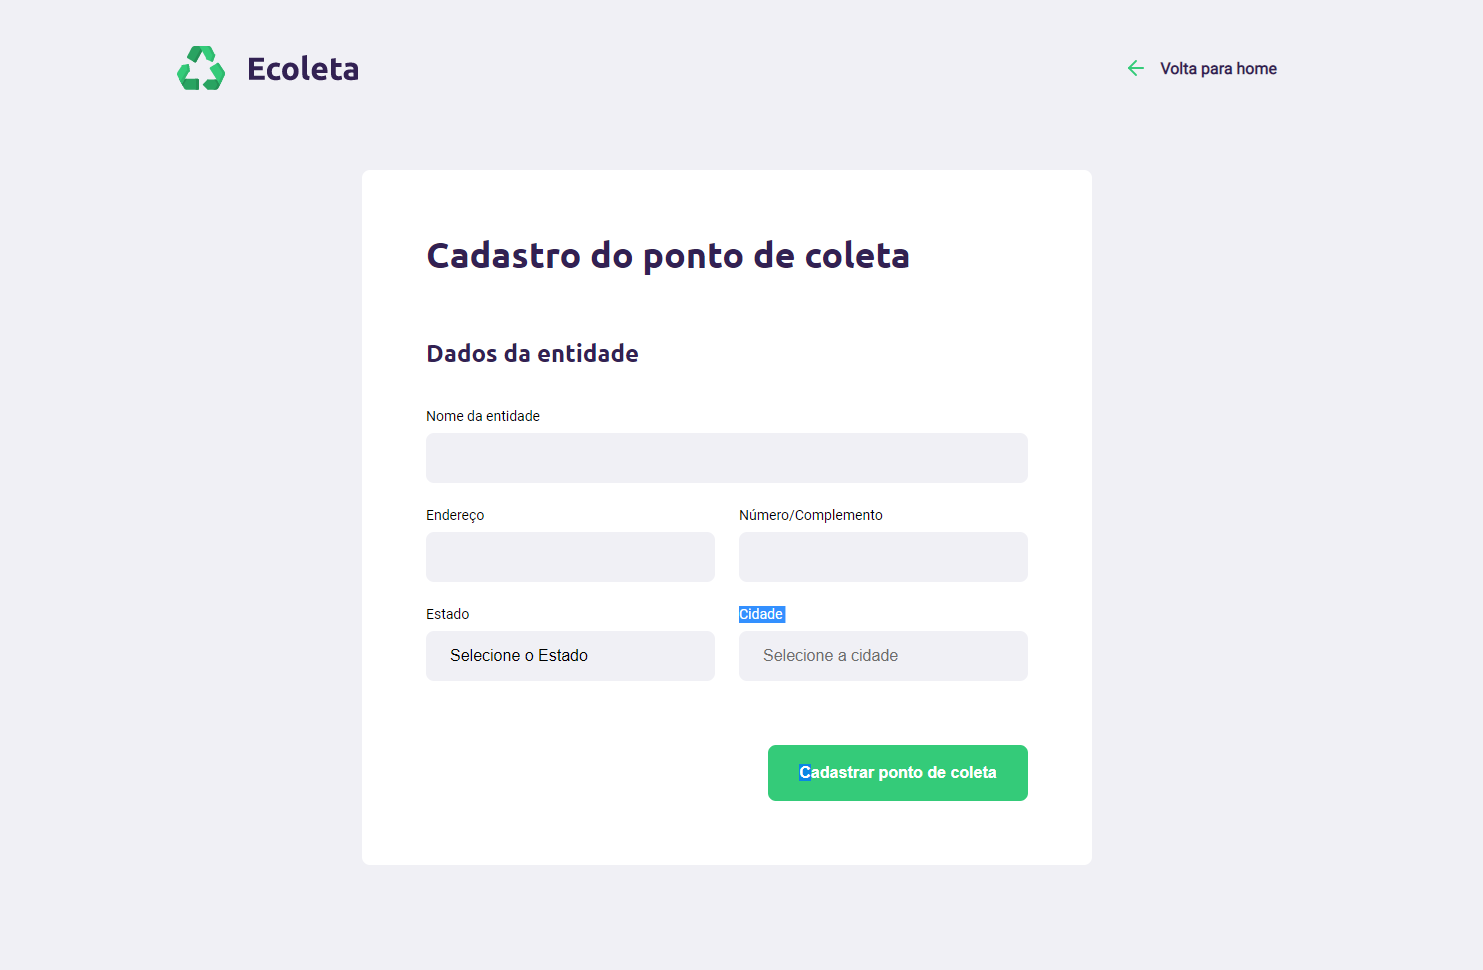
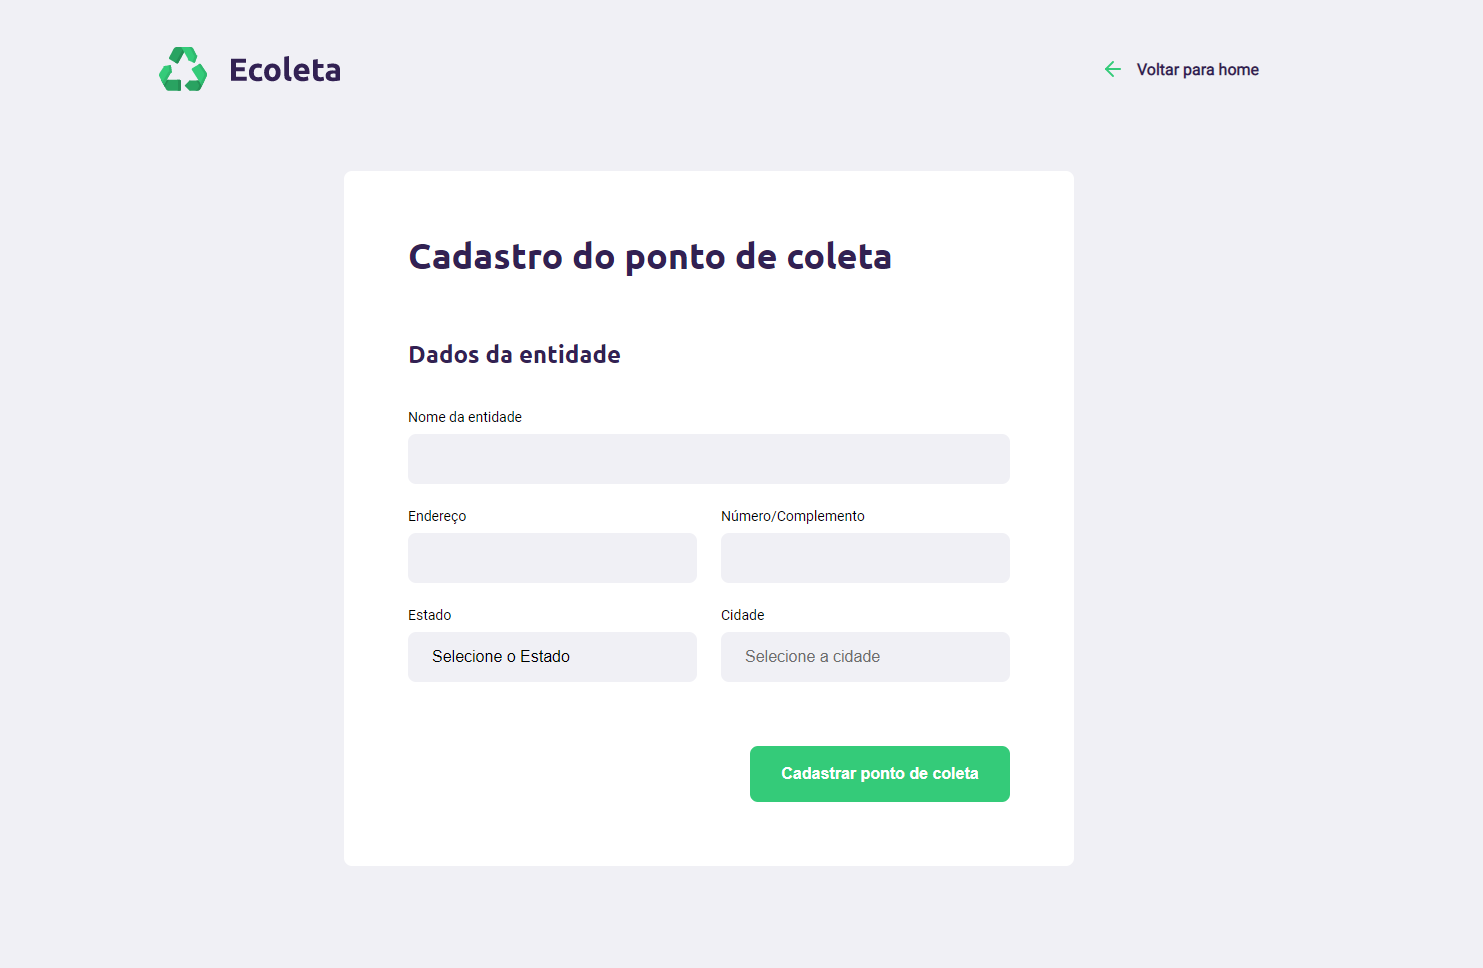
Correção no texto da screenshot e aplicação

diff --git a/create-point.html b/create-point.html
@@ -18,7 +18,7 @@
     <div id="page-create-point">
       <header>
         <img src="/assets/logo.svg" alt="Logo Ecoleta" />
-        <a href="#"> <span></span> Volta para home </a>
+        <a href="#"> <span></span> Voltar para home </a>
       </header>
 
       <form action="">
